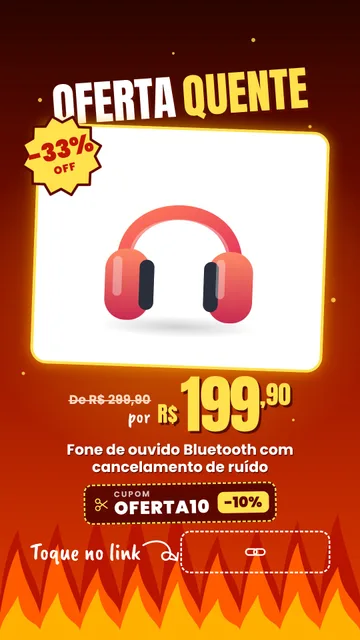
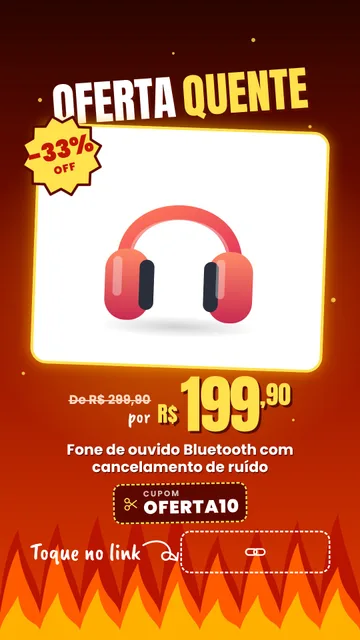
fix(offer-story): percentual único na arte do Story
Selo (desconto total) e chip do cupom divergiam (89% × -80%): a arte mostra só o percentual do selo; % do cupom vira rótulo apenas sem selo. Título de IA com percentual ou número fora do produto é descartado. Miniaturas regeneradas.

Changed region(s): [[0.2139, 0.75, 0.7944, 0.8438]]

diff --git a/api/src/modules/offer-story/application/use-cases/OfferStoryUseCases.test.ts b/api/src/modules/offer-story/application/use-cases/OfferStoryUseCases.test.ts
@@ -148,6 +148,8 @@ describe('RenderOfferStoryUseCase', () => {
     ['erro qualquer', (f: ReturnType<typeof setup>['fakes']) => { f.ai.error = new Error('boom'); }],
     ['resposta com preço', (f: ReturnType<typeof setup>['fakes']) => { f.ai.text = 'Fone por R$ 99'; }],
     ['resposta vazia', (f: ReturnType<typeof setup>['fakes']) => { f.ai.text = '  '; }],
+    ['resposta com percentual', (f: ReturnType<typeof setup>['fakes']) => { f.ai.text = 'Fone XYZ Pro com 80% OFF'; }],
+    ['resposta com número inventado', (f: ReturnType<typeof setup>['fakes']) => { f.ai.text = 'Fone XYZ Pro 2 unidades'; }],
     ['timeout', (f: ReturnType<typeof setup>['fakes']) => { f.ai.hang = true; }],
   ])('IA %s → título original + AI_FALLBACK', async (_l, arrange) => {
     const { fakes, render } = setup();
@@ -156,6 +158,22 @@ describe('RenderOfferStoryUseCase', () => {
     expect(out.headline).toBe(makeResolved().product.title);
     expect(out.warnings).toEqual(['AI_FALLBACK']);
     expect(fakes.renderer.calls).toHaveLength(1);
+  });
+
+  it('caso de produção: preço e cupom determinísticos, iguais em gerações repetidas, mesmo com a IA variando', async () => {
+    const { fakes, render } = setup();
+    fakes.resolveProduct.result = makeResolved({ product: { ...makeResolved().product, priceCents: 443500, originalPriceCents: 799900 } });
+    const input = { ...base, coupon: { code: 'PEDROSO', discountPercent: 80 } };
+    const first = await render.execute(input);
+    fakes.ai.text = 'Fone XYZ Pro por apenas 89% a menos';
+    const second = await render.execute(input);
+    for (const out of [first, second]) {
+      expect(out.price).toEqual({ fromCents: 799900, toCents: 88700 });
+      expect(out.coupon).toEqual({ code: 'PEDROSO', discountPercent: 80 });
+    }
+    expect(fakes.renderer.calls[1].price).toEqual(fakes.renderer.calls[0].price);
+    expect(fakes.renderer.calls[1].coupon).toEqual(fakes.renderer.calls[0].coupon);
+    expect(second.headline).toBe(makeResolved().product.title);
   });
 
   it('preço nulo → NO_PRICE e bloco de preço vazio, mesmo com desconto', async () => {

diff --git a/api/src/modules/offer-story/domain/services/storyHeadline.ts b/api/src/modules/offer-story/domain/services/storyHeadline.ts
@@ -6,21 +6,29 @@ const QUOTES = /["'`´“”‘’«»„*]/g;
 const EMOJI = /[\p{Extended_Pictographic}\p{Regional_Indicator}\u{FE0F}\u{200D}\u{20E3}]/gu;
 /** "R$" ou número com vírgula decimal (199,90): título com preço pode mentir na arte. */
 const PRICE = /R\$|\d+,\d/i;
+/** Percentual ("80%", "80 por cento"): desconto na arte só vem do cálculo De→Por, nunca da IA. */
+const PERCENT = /%|\bpor\s*cento\b/i;
+const NUMBERS = /\d+(?:[.,]\d+)*/g;
 /** Pontuação que não deve terminar o título depois do corte. */
 const TRAILING = /[\s,;:.\-–—/|]+$/u;
 
 /**
  * Título curto do story (resposta da IA): tira aspas, emoji e quebras, colapsa espaços e corta em
- * `OFFER_STORY_HEADLINE_MAX` na última palavra inteira. `null` = inválido (vazio ou com preço) e
- * quem chama usa o título original.
+ * `OFFER_STORY_HEADLINE_MAX` na última palavra inteira. `null` = inválido (vazio, com preço, com
+ * percentual ou com número que não está em `sourceTitle`) e quem chama usa o título original.
+ * Número de modelo ("800W", "S23") passa porque vem do título do produto; número novo é inventado.
  */
-export function sanitizeStoryHeadline(raw: string | null | undefined): string | null {
+export function sanitizeStoryHeadline(raw: string | null | undefined, sourceTitle?: string): string | null {
   const text = (raw ?? '')
     .replace(QUOTES, '')
     .replace(EMOJI, '')
     .replace(/\s+/g, ' ')
     .trim();
-  if (!text || PRICE.test(text)) return null;
+  if (!text || PRICE.test(text) || PERCENT.test(text)) return null;
+  if (sourceTitle !== undefined) {
+    const known = new Set(sourceTitle.match(NUMBERS) ?? []);
+    if ((text.match(NUMBERS) ?? []).some((n) => !known.has(n))) return null;
+  }
   if (text.length <= OFFER_STORY_HEADLINE_MAX) return text;
   const cut = text.slice(0, OFFER_STORY_HEADLINE_MAX + 1);
   const space = cut.lastIndexOf(' ');

diff --git a/api/src/modules/offer-story/infrastructure/adapters/templates/storyLayoutModel.ts b/api/src/modules/offer-story/infrastructure/adapters/templates/storyLayoutModel.ts
@@ -18,6 +18,10 @@ export interface StoryLayoutModel {
   toLabel: string | null;
   /** % de desconto De→Por (1–99), só quando `fromLabel` existe; selo "-72%" na arte. */
   offPercent: number | null;
+  /**
+   * `discountLabel` só existe quando NÃO há selo (`offPercent` nulo): a arte mostra um único
+   * percentual. Com selo, o % do cupom já está dentro do De→Por e o ticket leva só o código.
+   */
   coupon: { code: string; discountLabel: string | null } | null;
 }
 
@@ -36,11 +40,16 @@ export interface StoryModelInput {
   coupon: { code: string; discountPercent: number | null } | null;
 }
 
-/** Deriva rótulos e o % do selo. "De" só aparece se maior que "Por"; % fica entre 1 e 99. */
+/**
+ * Deriva rótulos e o % do selo. "De" só aparece se maior que "Por"; % fica entre 1 e 99.
+ * Um único percentual por arte: o do selo (De→Por). O % digitado do cupom só vira rótulo quando
+ * não há selo; os dois juntos se contradiziam (selo 89% × ticket -80% no mesmo story).
+ */
 export function buildStoryLayoutModel(input: StoryModelInput): StoryLayoutModel {
   const { fromCents, toCents } = input;
   const hasFrom = toCents !== null && fromCents !== null && fromCents > toCents;
   const off = hasFrom ? Math.round(((fromCents - toCents) / fromCents) * 100) : 0;
+  const couponPercent = input.coupon?.discountPercent ?? null;
   return {
     width: input.width,
     height: input.height,
@@ -52,7 +61,7 @@ export function buildStoryLayoutModel(input: StoryModelInput): StoryLayoutModel 
     coupon: input.coupon
       ? {
           code: input.coupon.code,
-          discountLabel: input.coupon.discountPercent !== null ? `-${input.coupon.discountPercent}%` : null,
+          discountLabel: !hasFrom && couponPercent !== null ? `-${couponPercent}%` : null,
         }
       : null,
   };

diff --git a/api/src/modules/offer-story/infrastructure/adapters/templates/storyLayoutModel.test.ts b/api/src/modules/offer-story/infrastructure/adapters/templates/storyLayoutModel.test.ts
@@ -18,8 +18,31 @@ describe('buildStoryLayoutModel', () => {
     expect(m.toLabel).toBe('R$ 112,24');
     expect(m.fromLabel).toBe('R$ 399,00');
     expect(m.offPercent).toBe(72);
-    expect(m.coupon).toEqual({ code: 'OFERTA10', discountLabel: '-10%' });
+    // Com selo, o ticket leva só o código: um único percentual na arte
+    expect(m.coupon).toEqual({ code: 'OFERTA10', discountLabel: null });
   });
+
+  it('caso de produção: 7.999,00 → 887,00 com cupom de 80% mostra só 89% (selo), cupom literal', () => {
+    const input = { ...base, fromCents: 799900, toCents: 88700, coupon: { code: 'PEDROSO', discountPercent: 80 } };
+    const m = buildStoryLayoutModel(input);
+    expect(m.offPercent).toBe(89);
+    expect(m.coupon).toEqual({ code: 'PEDROSO', discountLabel: null });
+    expect(buildStoryLayoutModel(input)).toEqual(m);
+  });
+
+  it('sem selo (sem preço), o % digitado do cupom é o único percentual', () => {
+    const m = buildStoryLayoutModel({ ...base, fromCents: null, toCents: null, coupon: { code: 'PEDROSO', discountPercent: 80 } });
+    expect(m.offPercent).toBeNull();
+    expect(m.coupon).toEqual({ code: 'PEDROSO', discountLabel: '-80%' });
+  });
+
+  it.each([[39900, 11224, 10], [15000, 8000, 20], [799900, 88700, 80], [10000, 9900, 1], [null, null, 90], [null, 5000, 50]])(
+    'nunca há dois percentuais na arte (De %s, Por %s, cupom %s%%)',
+    (fromCents, toCents, discountPercent) => {
+      const m = buildStoryLayoutModel({ ...base, fromCents, toCents, coupon: { code: 'X', discountPercent } });
+      expect(m.offPercent !== null && m.coupon!.discountLabel !== null).toBe(false);
+    },
+  );
 
   it('sem "De" maior que "Por" não há selo nem preço riscado', () => {
     for (const fromCents of [null, 11224, 9000]) {

diff --git a/api/src/modules/offer-story/domain/services/storyHeadline.test.ts b/api/src/modules/offer-story/domain/services/storyHeadline.test.ts
@@ -21,6 +21,22 @@ describe('sanitizeStoryHeadline', () => {
     },
   );
 
+  it.each([['Scooter com 80% OFF'], ['Scooter 80 % de desconto'], ['Fone com 50 por cento off']])(
+    'percentual %j → null',
+    (raw) => {
+      expect(sanitizeStoryHeadline(raw)).toBeNull();
+      expect(sanitizeStoryHeadline(raw, raw)).toBeNull();
+    },
+  );
+
+  it('número só passa se estiver no título do produto', () => {
+    const title = 'Scooter Elétrica Mobilidade 800W Bateria 48V 2 Lugares';
+    expect(sanitizeStoryHeadline('Scooter Elétrica 800W 48V', title)).toBe('Scooter Elétrica 800W 48V');
+    expect(sanitizeStoryHeadline('Scooter Elétrica 1000W', title)).toBeNull();
+    expect(sanitizeStoryHeadline('Scooter Elétrica 80 OFF', title)).toBeNull();
+    expect(sanitizeStoryHeadline('Scooter Elétrica', title)).toBe('Scooter Elétrica');
+  });
+
   it('corta na última palavra inteira dentro do teto, sem pontuação no fim', () => {
     const raw = 'Fone de ouvido Bluetooth sem fio com cancelamento de ruído, estojo e microfone';
     const out = sanitizeStoryHeadline(raw)!;

diff --git a/api/src/modules/offer-story/application/use-cases/RenderOfferStoryUseCase.ts b/api/src/modules/offer-story/application/use-cases/RenderOfferStoryUseCase.ts
@@ -26,7 +26,7 @@ const AI_TIMEOUT = new Error('AI_TIMEOUT');
 const AI_SYSTEM = [
   'Você escreve títulos curtos para stories de ofertas no Instagram, em português do Brasil.',
   'Reescreva o nome do produto em no máximo 60 caracteres, mantendo marca, modelo e o que o produto é.',
-  'Responda só com o título, em uma linha: sem aspas, sem emoji, sem preço, sem valores em reais e sem hashtags.',
+  'Responda só com o título, em uma linha: sem aspas, sem emoji, sem preço, sem valores em reais, sem percentual de desconto, sem números que não estejam no nome e sem hashtags.',
 ].join(' ');
 
 export interface RenderOfferStoryInput {
@@ -149,7 +149,7 @@ export class RenderOfferStoryUseCase {
         }),
         timeout,
       ]);
-      const text = sanitizeStoryHeadline(result.text);
+      const text = sanitizeStoryHeadline(result.text, title);
       if (text) return { text, fallback: false };
       logger.warn({ tenantId, code: 'AI_RESPONSE_INVALID' }, 'offer story headline AI fallback');
     } catch (err) {

diff --git a/app/src/features/offerStory/strings.ts b/app/src/features/offerStory/strings.ts
@@ -50,7 +50,7 @@ export const offerStoryStrings = {
     codeLabel: 'Código',
     codeHelp: `Até ${OFFER_STORY_RULES.couponMax} caracteres: letras, números, _ . - e espaço`,
     discountLabel: 'Desconto (%)',
-    discountHelp: `Opcional. De ${OFFER_STORY_RULES.discountMin} a ${OFFER_STORY_RULES.discountMax}; o preço "Por" já sai com o desconto.`,
+    discountHelp: `Opcional. De ${OFFER_STORY_RULES.discountMin} a ${OFFER_STORY_RULES.discountMax}; o preço "Por" já sai com o desconto e o selo mostra o desconto total.`,
     back: 'Voltar',
     generate: 'Gerar arte',
     previewTitle: 'Prévia do visual',

diff --git a/api/src/modules/offer-story/infrastructure/adapters/templates/storyParts.ts b/api/src/modules/offer-story/infrastructure/adapters/templates/storyParts.ts
@@ -250,7 +250,7 @@ function scissors(color: string): StoryNode {
   return image(svgDataUri(svg(body, 60, 60)), 40, 40, { marginRight: 18 });
 }
 
-/** Ticket recortável "CUPOM OFERTA10 | -10%": código em destaque, cabe 20 caracteres. */
+/** Ticket recortável "CUPOM OFERTA10": código em destaque, cabe 20 caracteres. "-10%" só sem selo (ver modelo). */
 export function couponTicket(m: StoryLayoutModel, o: CouponOptions): StoryNode | null {
   if (!m.coupon) return null;
   const long = m.coupon.code.length > 12;

diff --git a/docs/story-de-oferta.md b/docs/story-de-oferta.md
@@ -83,12 +83,23 @@ Preço nunca é inventado: vem do produto extraído ou do desconto digitado.
   gerador (letras, números, `_ . -`, espaço), **máx. 20** na arte (gerador aceita 40). Fora disso → `422
   OFFER_INVALID_INPUT` (`field: 'coupon'`). Painel valida igual antes de enviar (`productForm.ts`).
 - Desconto % inteiro 1–90, opcional; desconto sem código → 400 (schema). Cupom sem % não muda preço.
-- Arte mostra selo "CUPOM: <CÓDIGO>".
+- Arte mostra o ticket "CUPOM <CÓDIGO>", com o código literal (só `normalizeCoupon`; nunca gerado nem alterado).
+
+## Percentual na arte (fonte única)
+
+- A arte mostra **um único percentual**: o selo `-X% OFF` = `round((De − Por) / De × 100)`, entre 1 e 99
+  (`buildStoryLayoutModel`, `offPercent`), calculado dos mesmos centavos impressos em "De" e "Por".
+- O % digitado do cupom entra no "Por" (`computeStoryPrice`) e **não é impresso ao lado do código quando há selo**.
+  Só vira rótulo do ticket (`-d%`) quando não há selo (produto sem preço). Bug de produção 2026-11-13: selo `89%`
+  (De 7.999,00 → Por 887,00, cupom já aplicado) ao lado de ticket `-80%` (cupom digitado) na mesma arte; o selo
+  mudava a cada produto/preço e o ticket não.
+- Nenhum número da arte vem de IA nem de sorteio. Não criar segundo cálculo de desconto em layout: usar `offPercent`.
 
 ## Título com IA
 
 `IAiTextGenerator` (purpose `offer_story_headline`) encurta o título; `sanitizeStoryHeadline` tira aspas/emoji/
-quebras, corta em 60 e rejeita vazio ou com preço. Erro/inválido/IA indisponível → título original com `lineClamp` de
+quebras, corta em 60 e rejeita vazio, com preço, com percentual (`%`, "por cento") ou com número que não esteja
+no título do produto (modelo "800W" passa; número novo é inventado). Erro/inválido/IA indisponível → título original com `lineClamp` de
 2 linhas e aviso `AI_FALLBACK`; a arte sai mesmo assim. Gasto em `ai_usage_logs` e no teto diário existente.
 Imagem e título rodam em paralelo.
 
